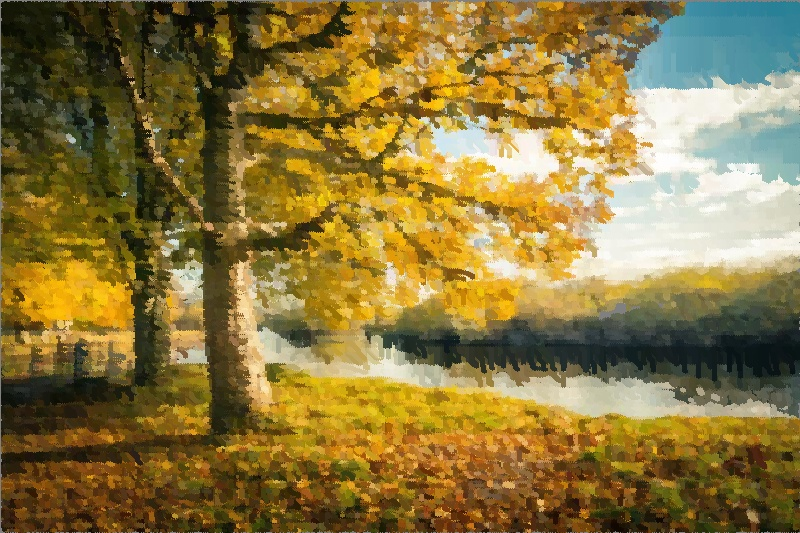
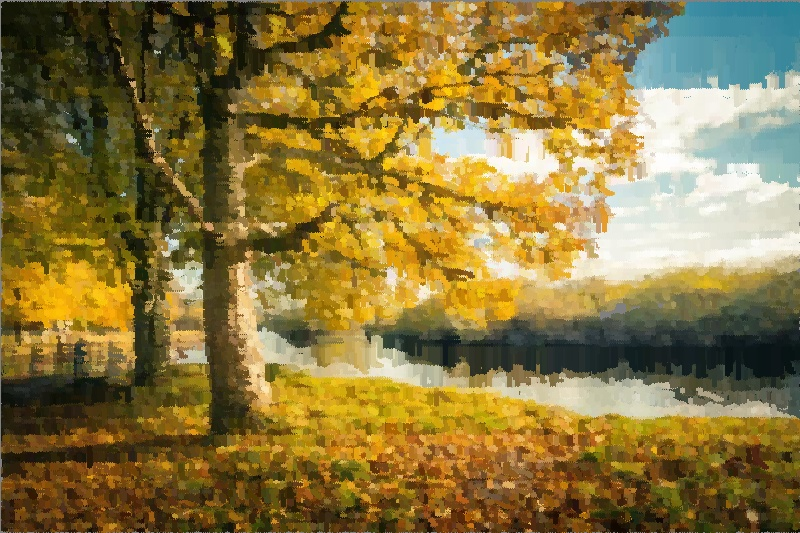
square estimate

diff --git a/python/src/paintLayer.py b/python/src/paintLayer.py
@@ -2,9 +2,11 @@ import cv2
 import numpy as np
 from makeStroke import makeStroke
 from style import *
+from estimate import *
 
 # NumPy for MATLAB users
 # http://mathesaurus.sourceforge.net/matlab-numpy.html
+
 
 
 def paintLayer(canvas, refImage, brushSize, fg=1):
@@ -19,7 +21,7 @@ def paintLayer(canvas, refImage, brushSize, fg=1):
     gray = cv2.cvtColor(refImage, cv2.COLOR_BGR2GRAY)
     gradX = cv2.Sobel(gray, -1, 1, 0, ksize=3)
     gradY = cv2.Sobel(gray, -1, 0, 1, ksize=3)
-    gradM = (gradX ** 2 + gradY ** 2) ** 0.5
+    gradM = (abs(gradX) + abs(gradY)) * 0.25
 
     height, width, _ = canvas.shape
     grid = fg * brushSize
@@ -106,8 +108,7 @@ def circle(R):
     # x is index or number???
     # start from 0 or 1??
     for x in np.arange(R - 1, -1, -1):
-        y = (R**2-x**2)**0.5
-        y = int(np.floor(y))
+        y = square((R - x) * (R + x))
         c[np.arange(y - 1, -1, -1), x] = np.ones(y)
     end0 = c.shape[0]-1
     end1 = c.shape[1]-1

diff --git a/python/src/estimate.py b/python/src/estimate.py
@@ -1,0 +1,37 @@
+def square(num):
+    if num >= 2 ** 16:
+        return 2 ** 8
+    elif num >= 2 ** 15:
+        return 2 ** 7 + 2 ** 6
+    elif num >= 2 ** 14:
+        return 2 ** 7
+    elif num >= 2 ** 13:
+        return 2 ** 6 + 2 ** 5
+    elif num >= 2 ** 12:
+        return 2 ** 6
+    elif num >= 2 ** 11:
+        return 2 ** 5 + 2 ** 4
+    elif num >= 2 ** 10:
+        return 2 ** 5
+    elif num >= 2 ** 8:
+        return 2 ** 4
+    elif num >= 100:
+        return 10
+    elif num >= 81:
+        return 9
+    elif num >= 64:
+        return 8
+    elif num >= 49:
+        return 7
+    elif num >= 36:
+        return 6
+    elif num >= 25:
+        return 5
+    elif num >= 16:
+        return 4
+    elif num >= 9:
+        return 3
+    elif num >= 4:
+        return 2
+    else:
+        return 1

diff --git a/python/src/makeStroke.py b/python/src/makeStroke.py
@@ -1,6 +1,7 @@
 import math
 import numpy as np
 from style import *
+from estimate import *
 
 
 def makeStroke(R, x0, y0, refImage, canvas, gradX, gradY, gradM):
@@ -47,8 +48,10 @@ def makeStroke(R, x0, y0, refImage, canvas, gradX, gradY, gradM):
         dx = fc * dx + (1 - fc) * dxF
         dy = fc * dy + (1 - fc) * dyF
         # normalises gradient
-        dx = dx / (dx ** 2 + dy ** 2) ** 0.5
-        dy = dy / (dx ** 2 + dy ** 2) ** 0.5
+        d = dx ** 2 + dy ** 2
+        dx = dx / square(d)
+        dy = dy / square(d)
+        # print(d ** 0.5)
         # advances coordinate by integer amount of gradient scaled by
         # brush size
         x = math.floor(x + R * dx)
